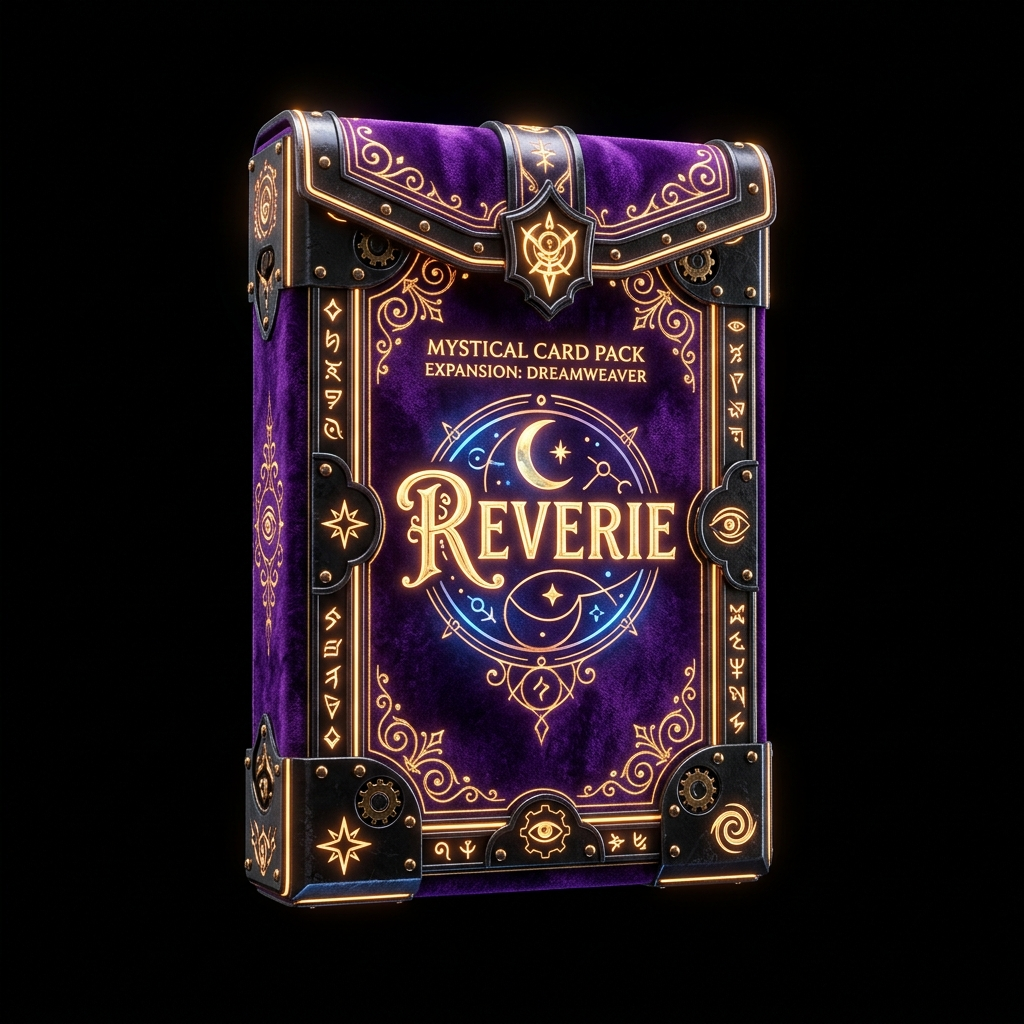
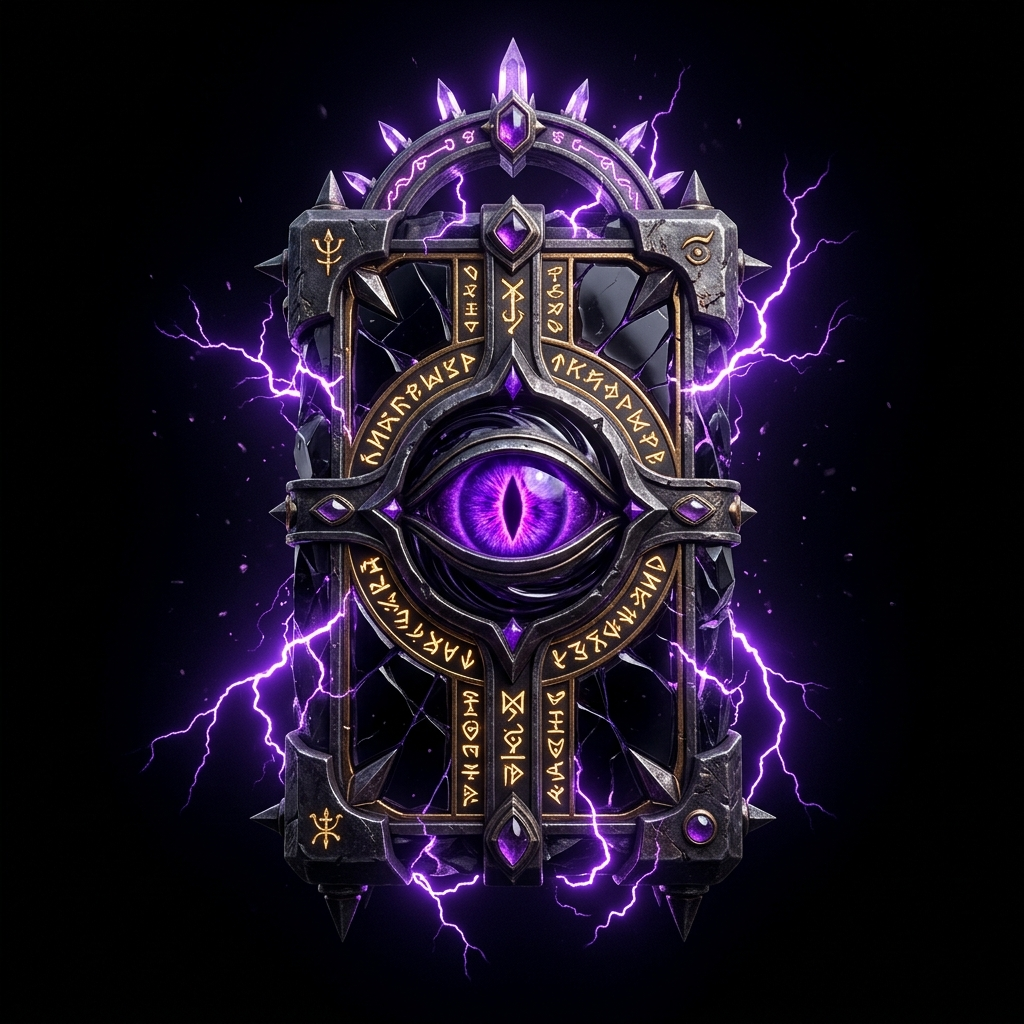
Aesthetic Fix: replaced clinical Three.js box with masterpiece high-fidelity artifact and premium 3D tilt effects

diff --git a/src/routes/home.tsx b/src/routes/home.tsx
@@ -1,9 +1,6 @@
 import { createFileRoute, Link, useNavigate } from "@tanstack/react-router";
 import { motion, AnimatePresence, useMotionValue, useSpring, useTransform } from "framer-motion";
-import React, { useEffect, useRef, Suspense } from "react";
-import { Canvas, useFrame } from "@react-three/fiber";
-import { useTexture, Float, Environment, ContactShadows, PerspectiveCamera } from "@react-three/drei";
-import * as THREE from "three";
+import React, { useEffect } from "react";
 import { MobileFrame } from "@/components/Common";
 import { BottomNav } from "@/components/BottomNav";
 import { useGame } from "@/game/store";
@@ -200,49 +197,71 @@ function StarterPackOpening({ onOpen }: { onOpen: () => string[] }) {
       className="fixed inset-0 z-[100] bg-black backdrop-blur-3xl flex flex-col items-center justify-center p-6 overflow-hidden"
     >
       {stage === "idle" || stage === "opening" ? (
-        <div className="relative w-full h-[400px] flex items-center justify-center z-10">
+        <div className="flex flex-col items-center z-10" style={{ perspective: "1500px" }}>
           <motion.div
             layoutId="starter-pack"
-            initial={{ opacity: 0, scale: 0.8 }}
-            animate={stage === "opening" ? { 
-              scale: [1, 1.2, 0],
-              opacity: [1, 1, 0],
-              y: [0, -100, 0],
-            } : { 
-              opacity: 1, 
-              scale: 1 
+            onPointerMove={handlePointerMove}
+            onPointerLeave={handlePointerLeave}
+            style={{ 
+              rotateX: stage === "idle" ? rotateX : 0, 
+              rotateY: stage === "idle" ? rotateY : 0,
+              transformStyle: "preserve-3d" 
             }}
-            transition={{ duration: stage === "opening" ? 2 : 1 }}
-            className="w-full h-full cursor-pointer relative"
+            animate={stage === "opening" ? { 
+              scale: [1, 1.5, 0],
+              rotateZ: [0, 20, -20, 720],
+              y: [0, -100, 0],
+              filter: ["brightness(1) blur(0px)", "brightness(3) blur(10px)", "brightness(0) blur(20px)"]
+            } : { 
+              y: [0, -20, 0],
+            }}
+            transition={{ duration: stage === "opening" ? 2 : 4, repeat: stage === "opening" ? 0 : Infinity }}
+            className="relative size-80 mb-12 cursor-pointer group"
             onClick={stage === "idle" ? handleOpen : undefined}
           >
-             <Suspense fallback={<div className="text-gold animate-pulse">Sintonizzazione 3D...</div>}>
-                <Canvas shadows gl={{ antialias: true, alpha: true }}>
-                   <PerspectiveCamera makeDefault position={[0, 0, 5]} fov={50} />
-                   <ambientLight intensity={1.5} />
-                   <spotLight position={[10, 10, 10]} angle={0.15} penumbra={1} intensity={5} castShadow />
-                   <pointLight position={[-10, -10, -10]} intensity={2} color="#6a0dad" />
-                   
-                   <Float speed={2} rotationIntensity={1.5} floatIntensity={1}>
-                      <PackModel textureUrl="/assets/starter-pack.png" isOpening={stage === "opening"} />
-                   </Float>
+             {/* Energetic Aura behind the artifact */}
+             <motion.div 
+               animate={{ 
+                 scale: [1, 1.2, 1],
+                 opacity: [0.3, 0.6, 0.3]
+               }}
+               transition={{ duration: 3, repeat: Infinity }}
+               className="absolute -inset-20 bg-gradient-to-t from-mystic-glow/20 to-transparent blur-[100px] rounded-full pointer-events-none"
+             />
 
-                   <Environment preset="night" />
-                   <ContactShadows position={[0, -2.5, 0]} opacity={0.6} scale={10} blur={2} far={4} />
-                </Canvas>
-             </Suspense>
+             {/* The Masterpiece Artifact */}
+             <div className="absolute inset-0 drop-shadow-[0_0_50px_rgba(150,100,255,0.3)]">
+                <img 
+                  src="/assets/starter-pack.png" 
+                  alt="Starter Pack" 
+                  className="size-full object-contain mix-blend-lighten select-none"
+                />
+             </div>
+
+             {/* Dynamic Gloss/Reflectance Overlay */}
+             <motion.div 
+               style={{
+                 x: useTransform(mouseX, [-150, 150], [-100, 100]),
+                 y: useTransform(mouseY, [-150, 150], [-100, 100]),
+                 background: "radial-gradient(circle at center, rgba(255,255,255,0.15) 0%, transparent 70%)"
+               }}
+               className="absolute inset-0 pointer-events-none mix-blend-overlay rounded-full"
+             />
 
              {/* Interact Hint */}
              {stage === "idle" && (
                 <motion.div 
                   initial={{ opacity: 0 }}
                   animate={{ opacity: 1 }}
-                  className="absolute bottom-4 left-1/2 -translate-x-1/2 whitespace-nowrap text-[10px] text-gold/60 uppercase tracking-[0.5em] animate-pulse pointer-events-none"
+                  className="absolute -bottom-16 left-1/2 -translate-x-1/2 whitespace-nowrap text-[10px] text-gold tracking-[0.5em] uppercase font-black animate-pulse"
                 >
-                  Tocca per aprire
+                  Sintonizza la tua Realtà
                 </motion.div>
              )}
           </motion.div>
+          
+          <h2 className="font-display text-3xl gold-text tracking-[0.2em] uppercase mb-2">Pacco Iniziale</h2>
+          <p className="text-[10px] text-white/30 uppercase tracking-[0.4em] mb-8 max-w-xs text-center leading-relaxed">Le tue memorie di base si stanno manifestando.</p>
         </div>
       ) : (
         <div className="w-full flex flex-col items-center z-10 max-w-lg">
@@ -311,47 +330,6 @@ function StarterPackOpening({ onOpen }: { onOpen: () => string[] }) {
   );
 }
 
-function PackModel({ textureUrl, isOpening }: { textureUrl: string, isOpening: boolean }) {
-  const meshRef = useRef<THREE.Mesh>(null!);
-  const texture = useTexture(textureUrl);
-  
-  useFrame((state, delta) => {
-    if (isOpening) {
-      meshRef.current.rotation.y += delta * 15;
-      meshRef.current.rotation.x += delta * 5;
-      meshRef.current.position.z += delta * 5;
-    } else {
-      // Gentle floating animation
-      meshRef.current.rotation.y = Math.sin(state.clock.elapsedTime * 0.5) * 0.2;
-      meshRef.current.rotation.x = Math.cos(state.clock.elapsedTime * 0.5) * 0.1;
-      meshRef.current.position.y = Math.sin(state.clock.elapsedTime) * 0.1;
-    }
-  });
-
-  return (
-    <group>
-      {/* RIM LIGHT: Makes the 3D edges pop */}
-      <pointLight position={[0, 0, -2]} intensity={5} color="#ffd700" />
-      
-      <mesh ref={meshRef} castShadow receiveShadow>
-        {/* Increased thickness to args 0.5 for more 'Volume' */}
-        <boxGeometry args={[2.4, 3.4, 0.5]} />
-        
-        {/* Front Face: High Quality Texture */}
-        <meshStandardMaterial attach="material-4" map={texture} roughness={0.1} metalness={0.9} />
-        
-        {/* Back Face: Mysterious Dark Version */}
-        <meshStandardMaterial attach="material-5" map={texture} color="#222" roughness={0.6} metalness={0.1} />
-        
-        {/* SIDES: Textured Gold/Metallic foil look */}
-        <meshStandardMaterial attach="material-0" color="#8b6508" roughness={0.05} metalness={1} />
-        <meshStandardMaterial attach="material-1" color="#8b6508" roughness={0.05} metalness={1} />
-        <meshStandardMaterial attach="material-2" color="#b8860b" roughness={0.05} metalness={1} />
-        <meshStandardMaterial attach="material-3" color="#b8860b" roughness={0.05} metalness={1} />
-      </mesh>
-    </group>
-  );
-}
 
 function ResourcePill({ icon: Icon, value, color }: { icon: any; value: number; color: string }) {
   return (